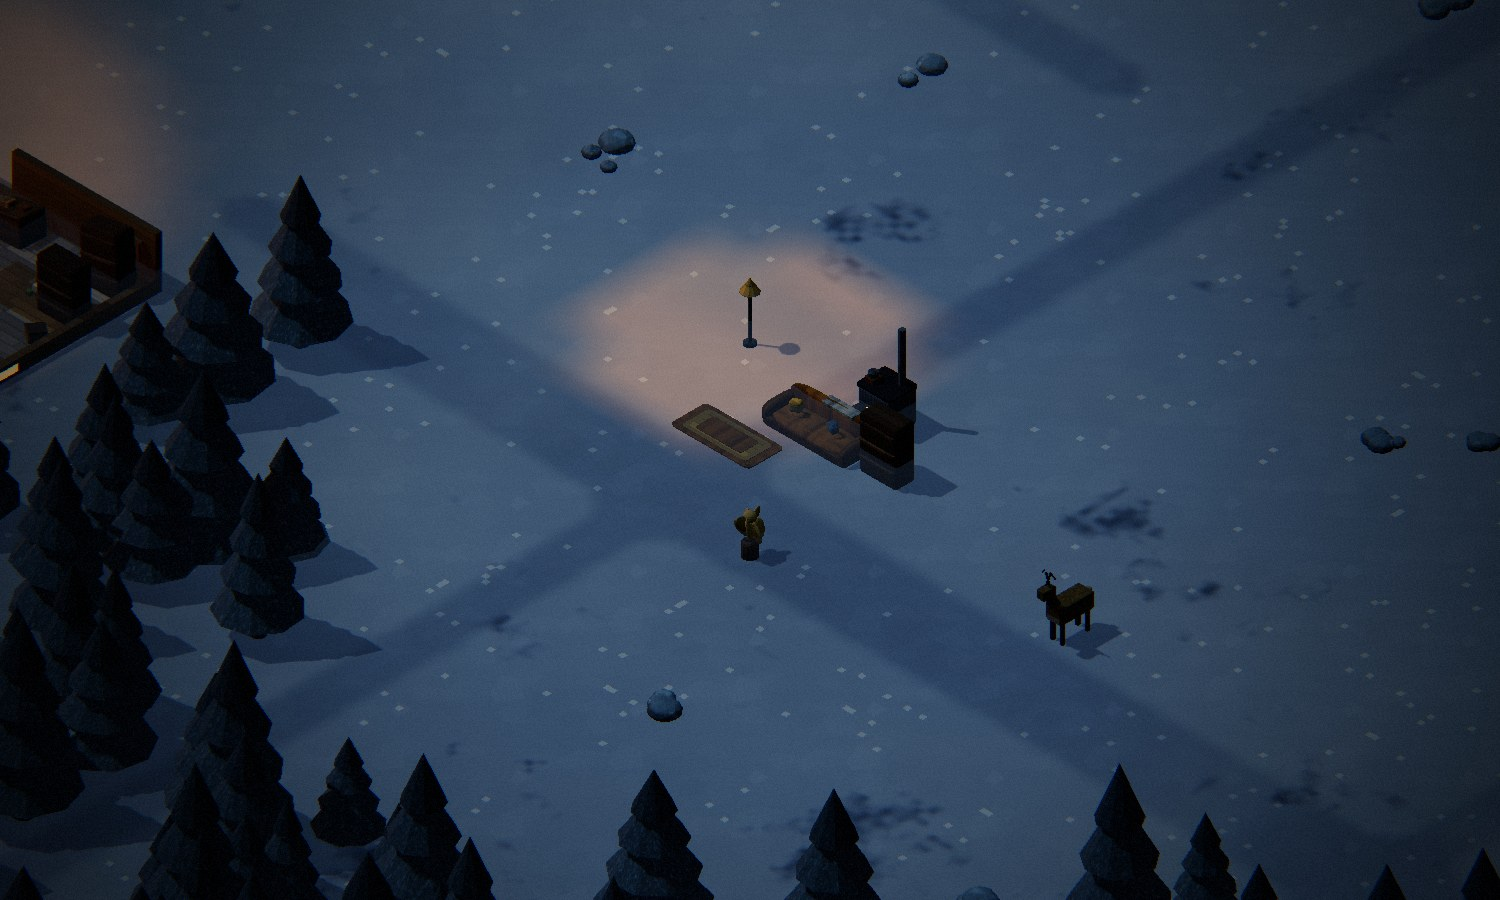
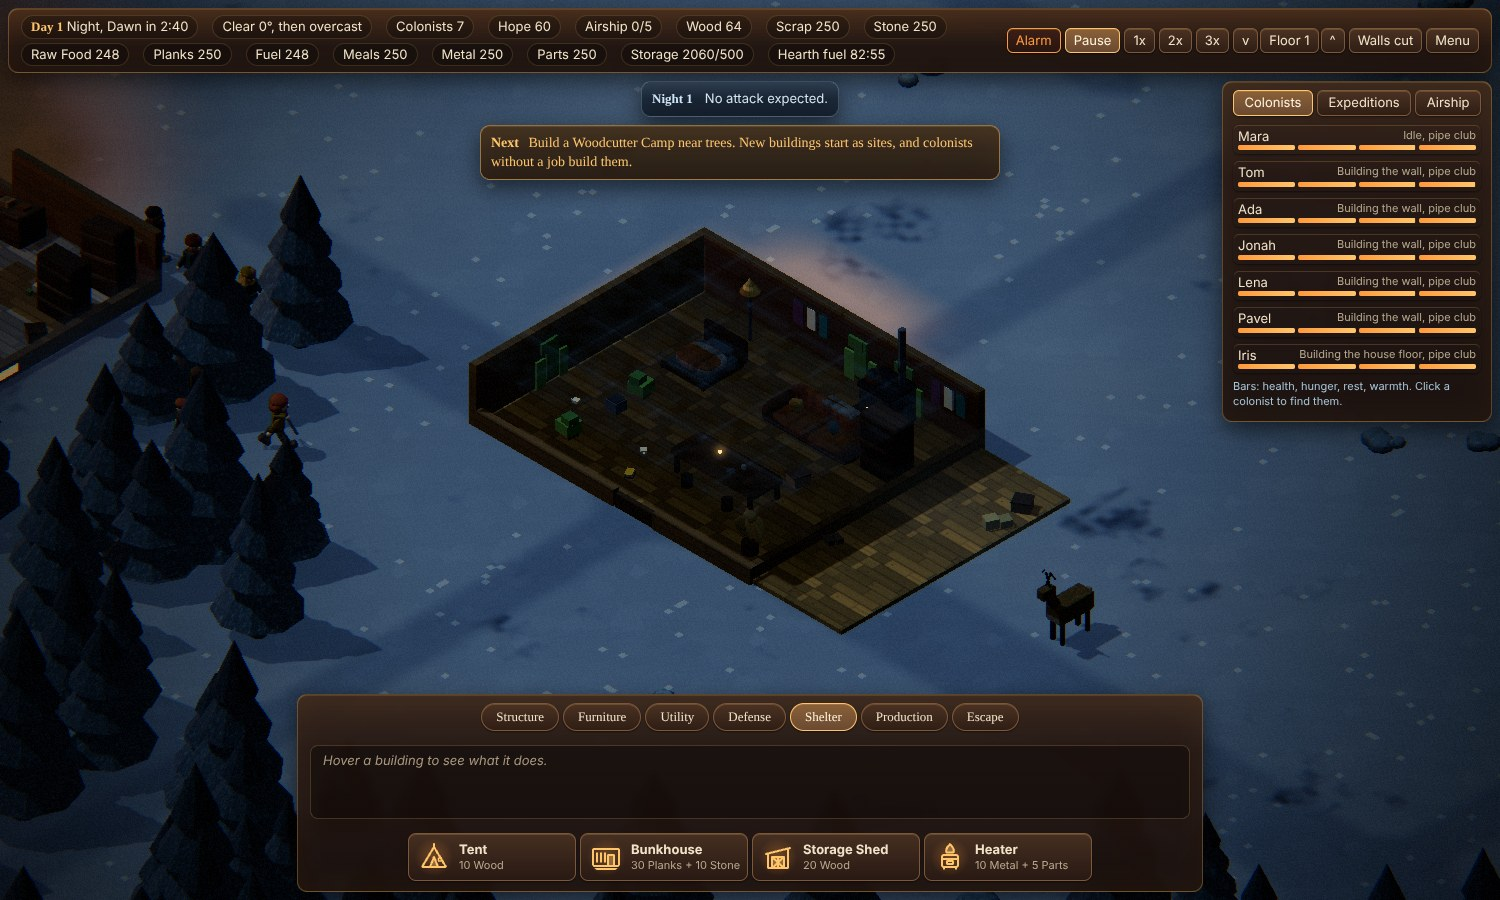
Real warm lights for lamps, heaters, and stoves near the camera
Claude-Session: https://claude.ai/code/session_01Q9X5STVAdJ8BgaUzdfUnwi

diff --git a/src/render/sync.ts b/src/render/sync.ts
@@ -23,6 +23,7 @@ import { createHearthSiteMesh, createStashMesh } from './meshes/markers';
 import { createHouseView, type HouseLook } from './houseView';
 import { buildProps, colorPropsByWarmth } from './meshes/props';
 import { createPoiMesh } from './meshes/pois';
+import { PALETTE } from './materials';
 import { createAmbience } from './meshes/ambience';
 import { createAnimalView } from './meshes/animals';
 import { createMist } from './meshes/mist';
@@ -119,6 +120,12 @@ export function createWorldView(world: World, view: Pick<View, 'scene' | 'fog' |
   scene.add(stash.group);
   const hearthSite = createHearthSiteMesh();
   scene.add(hearthSite.group);
+  // Lamps, heaters, and stoves near the camera light the rooms they stand in with real warm light. The hearth has its own.
+  const lampPool = Array.from({ length: 5 }, () => {
+    const l = new THREE.PointLight(PALETTE.lantern, 0, 12, 1.7);
+    scene.add(l);
+    return l;
+  });
   const hearthLight = createHearthLight();
   hearthLight.position.add(hearth.group.position);
   scene.add(hearthLight);
@@ -167,6 +174,28 @@ export function createWorldView(world: World, view: Pick<View, 'scene' | 'fog' |
       });
       groundMat.uniforms.uFrost.value = atmosphere.update(w, time);
       const lights = lightSources(w);
+      {
+        // The ground point the camera looks at, then the nearest lights to it.
+        camera.getWorldDirection(viewDir);
+        const t = viewDir.y !== 0 ? -camera.position.y / viewDir.y : 0;
+        const [cx, cz] = [camera.position.x + viewDir.x * t, camera.position.z + viewDir.z * t];
+        const near = lights
+          .filter((l) => Math.hypot(l.x - w.hearth.x, l.y - w.hearth.y) > 0.8)
+          .map((l) => ({ l, d: Math.hypot(l.x - width / 2 - cx, l.y - height / 2 - cz) }))
+          .sort((a, b) => a.d - b.d)
+          .slice(0, lampPool.length);
+        lampPool.forEach((lamp, i) => {
+          const e = near[i];
+          // Lights stay in the scene at zero strength when unused, so the shader is not rebuilt as lamps come and go.
+          if (!e || e.d > 40) {
+            lamp.intensity = 0;
+            return;
+          }
+          lamp.position.set(e.l.x - width / 2, 1.5, e.l.y - height / 2);
+          lamp.intensity = (2.2 + e.l.r * 1.1) * (1 + Math.sin(time * 6 + i * 2.1) * 0.04);
+          lamp.distance = e.l.r * 2.2 + 3;
+        });
+      }
       const key = lights.map((l) => `${l.x},${l.y},${l.r}`).join(';');
       if (key !== lightKey) {
         lightKey = key;
